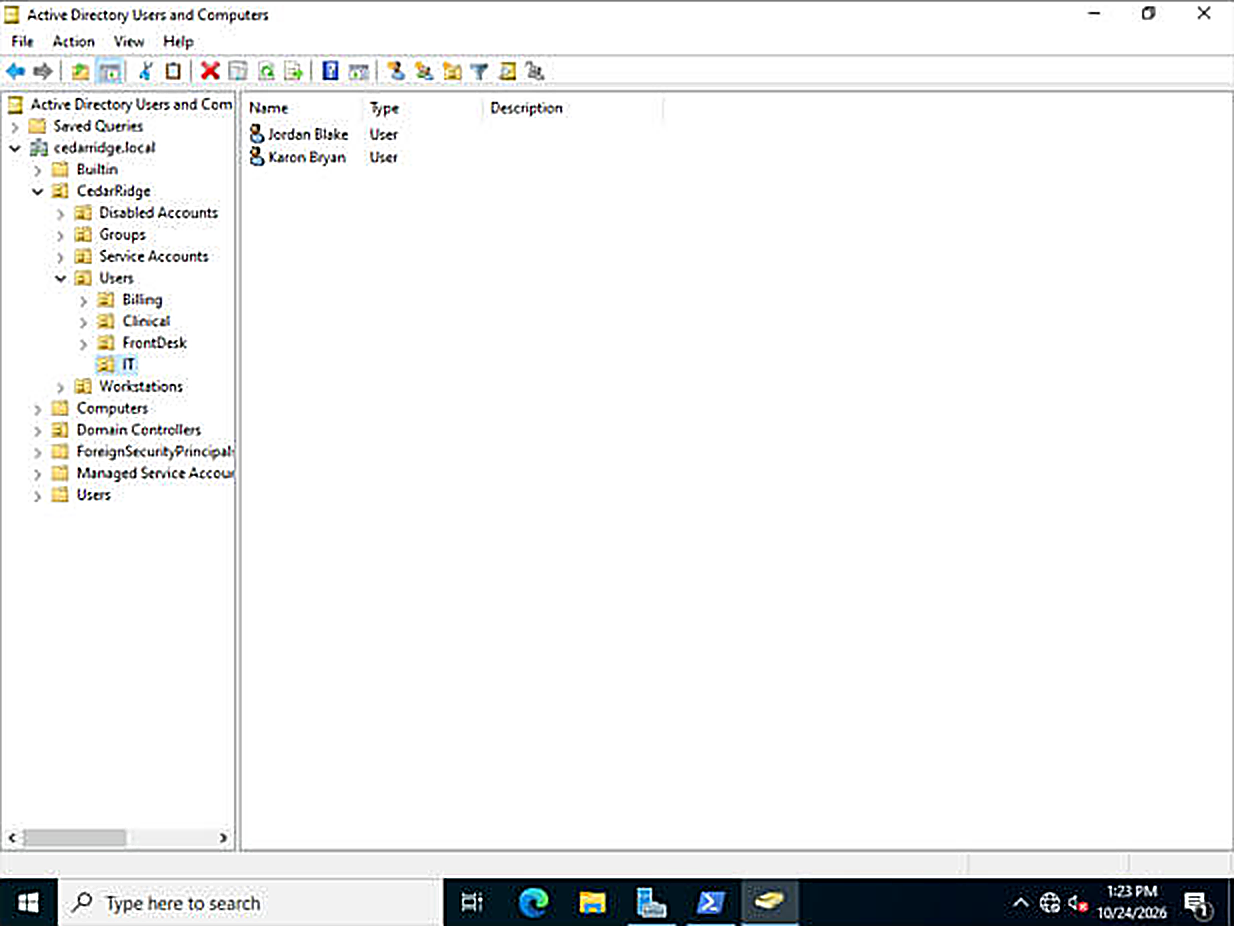
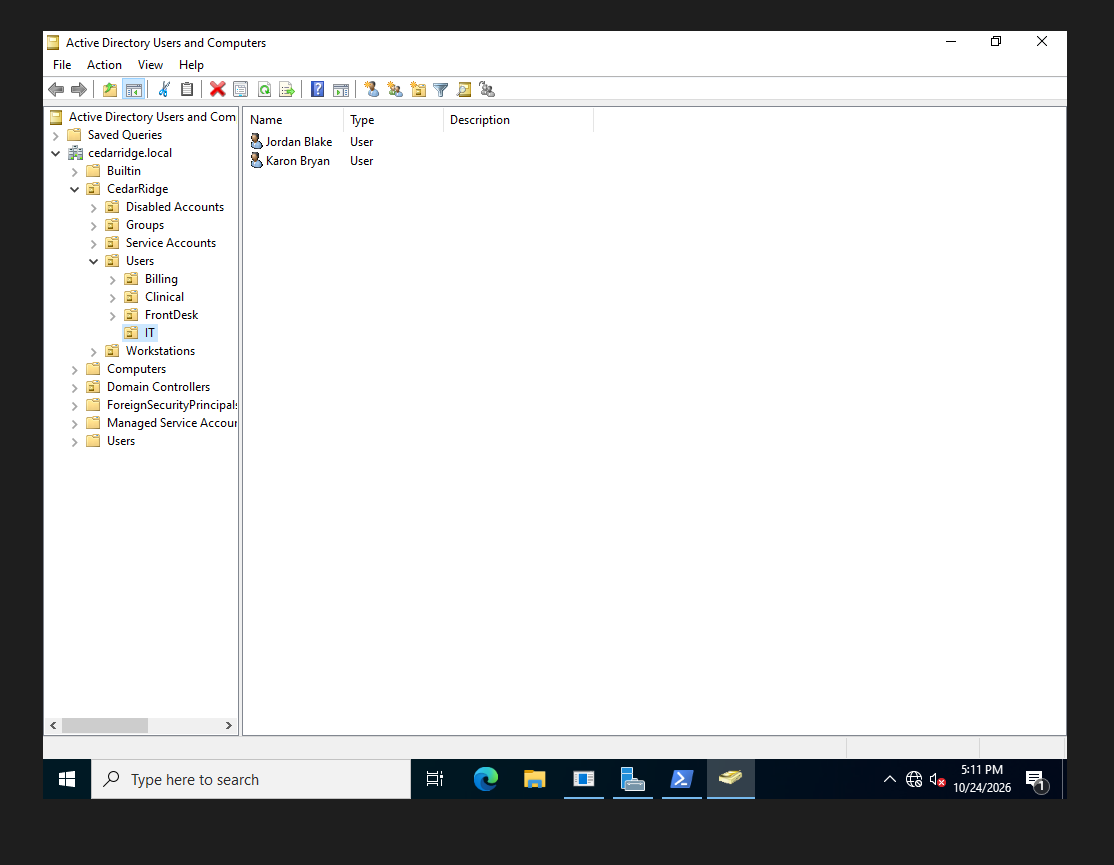
Retake screenshots, fix diagram

Changed region(s): [[0.0, 0.0, 1.0, 1.0]]

diff --git a/iam-01-active-directory-build/README.md b/iam-01-active-directory-build/README.md
@@ -14,7 +14,7 @@ Every IAM lab after this one needs a real directory to work against, so this is 
 
 ## Lab Architecture
 
-![IAM lab network diagram](<diagrams/iam lab diagram.png>)
+![IAM lab network diagram](diagrams/iam-lab-diagram.png)
 
 Both VMs sit on a VirtualBox Internal Network named `iamlab`. Nothing else is attached, so they can only see each other. This is a separate network from my SOC lab (`soclab`), so the two tracks don't touch.
 
